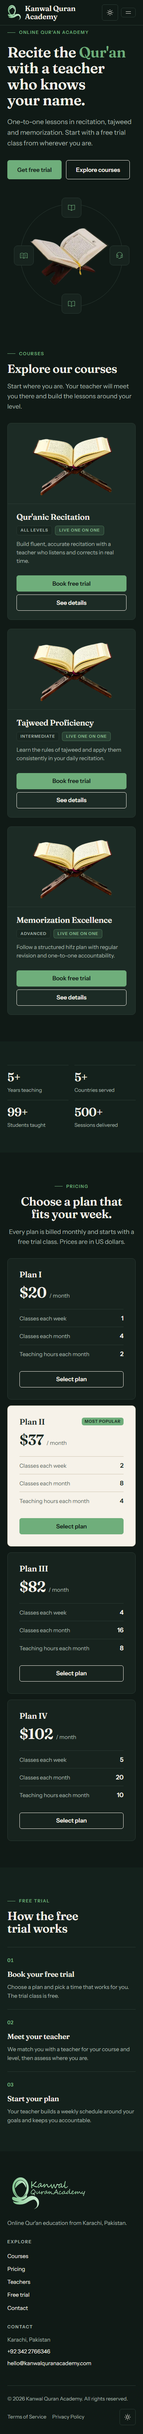
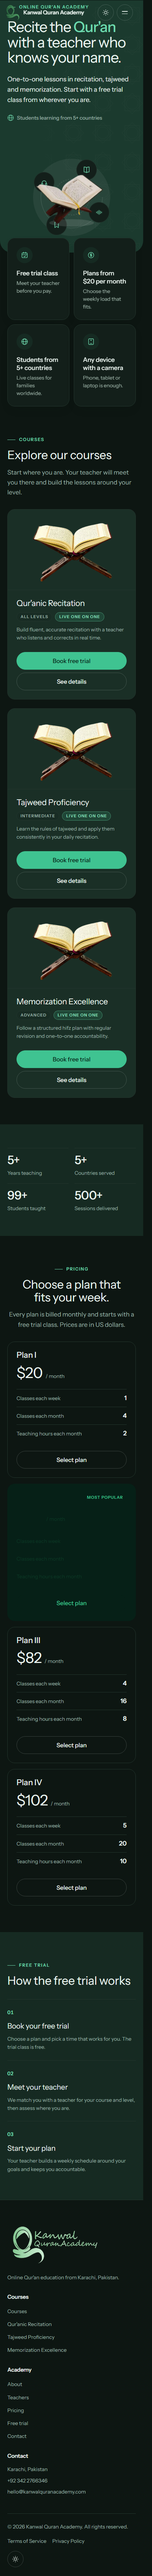
fix: no page overflow from the orbit sweep, counter-rotating label pills, hero clips its own box, inner-side pill on the right position

Changed region(s): [[0.0, 0.0, 0.9538, 0.997], [0.8, 0.7166, 0.8615, 0.7477]]

diff --git a/AGENTS.md b/AGENTS.md
@@ -38,7 +38,7 @@ Payments are NOT in scope yet. "Select plan" opens the trial/enrolment form with
 - Hero: full-width section on --mint-300 whose only rounded corners are the bottom two (radius 48px, 32px below 760px). The hero colour never shows outside the hero. The header is in normal flow at the top of the hero, never absolutely positioned over the content; hero copy starts at least 56px below the header. Desktop: min-height 640px with 140px bottom padding to make room for the overlapping feature cards. Header logo mark is 44px tall.
 - Hero content: eyebrow, h1, lead paragraph and the small "Students learning from 5+ countries" line only. No CTA buttons, no trial mini card and no chip row inside the hero; the header keeps its "Get free trial" button.
 - Floating feature grid: directly under the hero, four white cards (--surface in dark) overlapping the hero bottom edge by 72px (40px mobile), above the surrounding sections in z-index. Radius 20px, 1px --line, soft shadow 0 12px 32px -16px rgba(11,26,20,.25), 24px padding, a 44px --mint-100 circle with a custom SVG icon, a title and one short line, 4px lift on hover and focus-within, 4 columns on desktop and 2x2 on mobile. Staggered fade-up entrance starts 600ms after load. The next section clears the overlap with extra top padding.
-- Hero visual: square stage, min(46vw, 520px) (300px mobile), with the Quran image floating over a flat backdrop circle, a 1px orbit ring, an inner counter-rotating dashed ring, and four 56px round link buttons on the orbit (three courses plus live one-to-one) whose whole orbit turns once per 48s with counter-rotating icons. Transform and opacity only; loops pause off screen; prefers-reduced-motion keeps everything static but keeps hover labels. See index.astro for the full spec.
+- Hero visual: square stage, min(46vw, 520px) (300px mobile), with the Quran image floating over a flat backdrop circle, a 1px orbit ring, an inner counter-rotating dashed ring, and four 56px round link buttons on the orbit (three courses plus live one-to-one) whose whole orbit turns once per 48s with counter-rotating icons. Hover, focus, or a first tap on touch shows a 14px label pill beside the icon; the ring's right position leans its pill inward and the run clock pauses while hovered so the pill is never clipped or tilted. Transform and opacity only; loops pause off screen; prefers-reduced-motion keeps everything static but keeps hover labels. The hero clips its own overflow so the turning stage can never create page scroll. See index.astro for the full spec.
 - Texture: a very faint (6% opacity) Islamic geometric line pattern, flat SVG, only inside the hero panel. No gradients, no glass, no orbs, no dot grids, no emojis, no default icon set.
 - Mobile first, check at 360px, 768px, 1280px.
 
